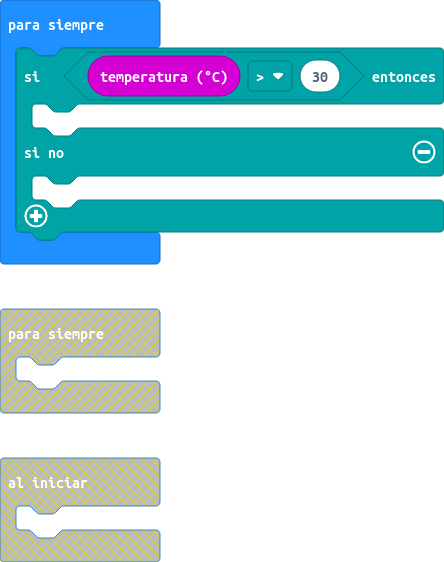
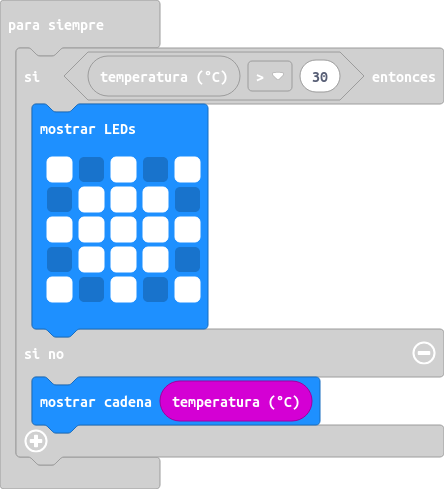
Actualizar main.blocks, main.ts

diff --git a/main.ts b/main.ts
@@ -1,7 +1,13 @@
 basic.forever(function () {
     if (input.temperature() > 30) {
-    	
+        basic.showLeds(`
+            # . # . #
+            . # # # .
+            # # # # #
+            . # # # .
+            # . # . #
+            `)
     } else {
-    	
+        basic.showString("" + (input.temperature()))
     }
 })
